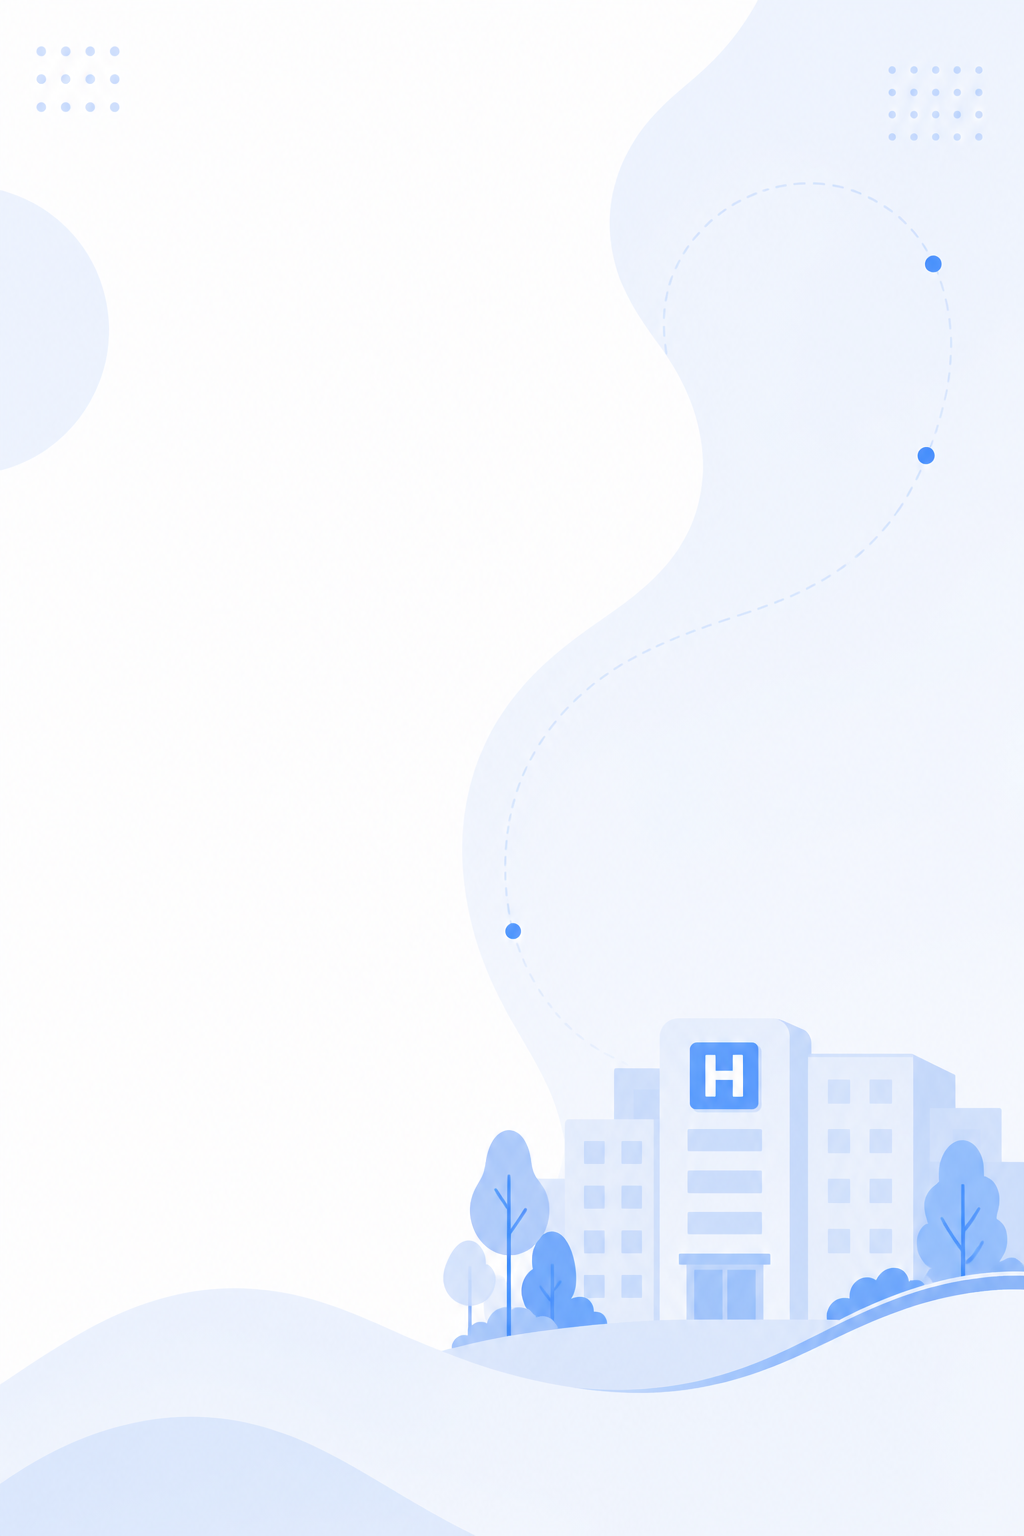
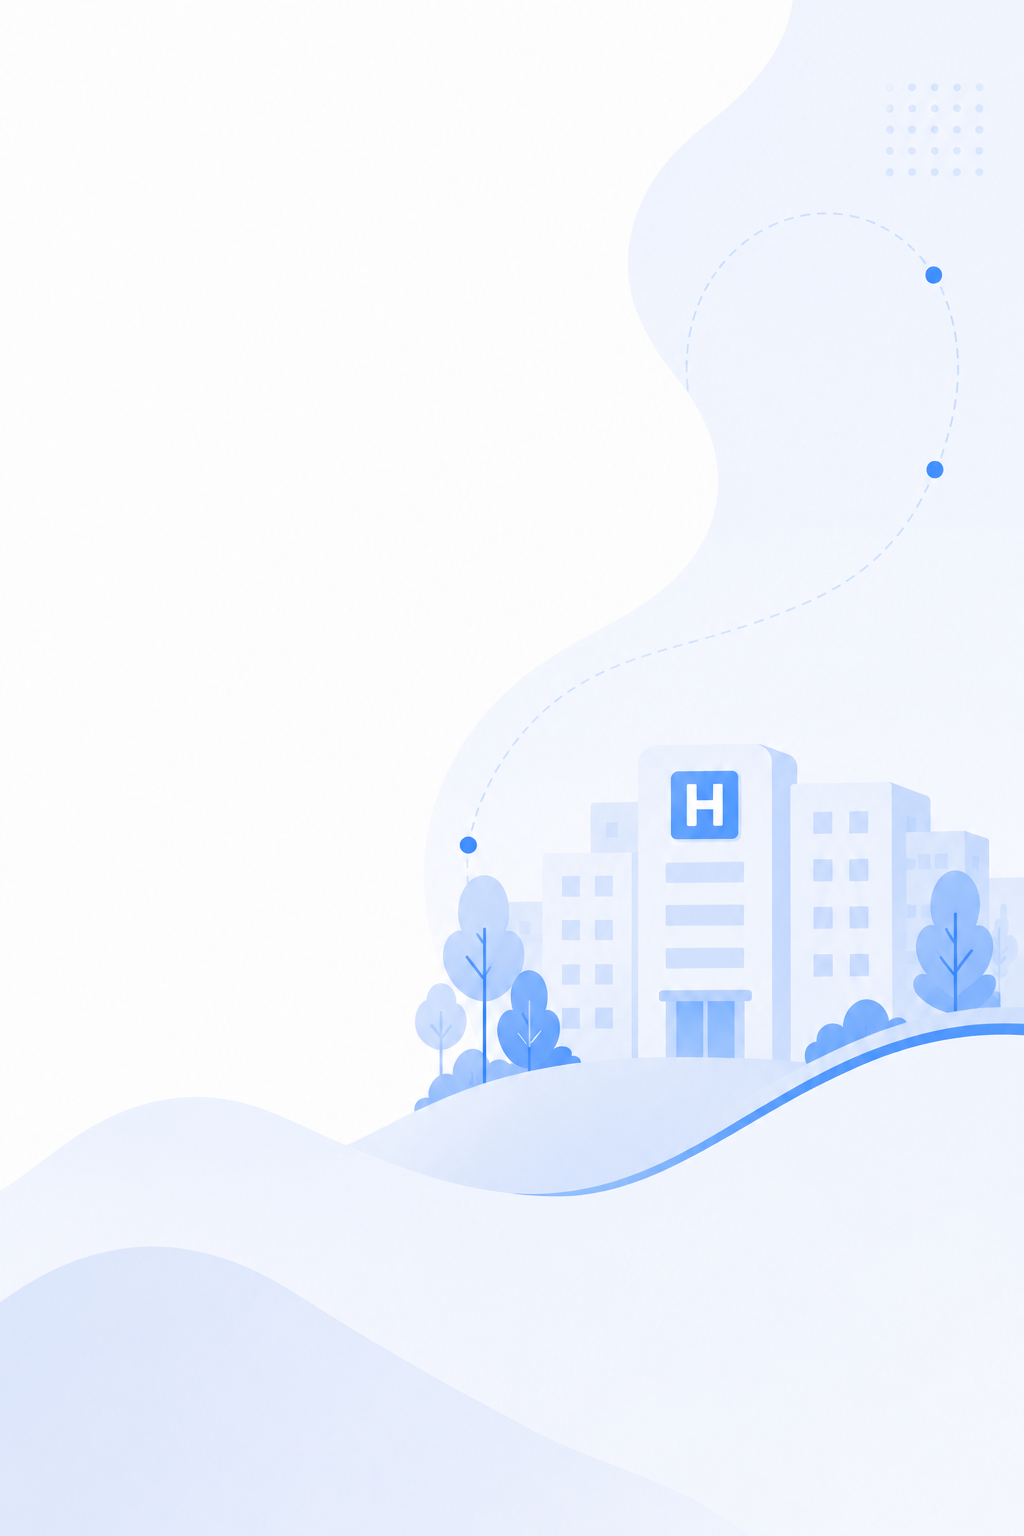
style: update signup panel background scene

diff --git a/frontend/components/forms/signup-wizard.tsx b/frontend/components/forms/signup-wizard.tsx
@@ -262,11 +262,11 @@ export default function SignupWizard() {
             src="/images/signup/left-panel-background.png"
             alt="MediPlan tanıtım arka planı"
             fill
-            className="pointer-events-none object-cover object-center"
+            className="pointer-events-none object-cover object-right"
             sizes="(min-width: 1024px) 560px, 100vw"
             priority
           />
-          <div className="pointer-events-none absolute inset-0 bg-[linear-gradient(180deg,rgba(255,255,255,0.1),rgba(255,255,255,0.02))]" />
+          <div className="pointer-events-none absolute inset-0 bg-[linear-gradient(180deg,rgba(255,255,255,0.08),rgba(255,255,255,0.02))]" />
 
           <div className="relative z-10 flex h-full w-full flex-col justify-between px-7 py-6 xl:px-8">
             <div className="space-y-6">
@@ -290,14 +290,14 @@ export default function SignupWizard() {
               </div>
 
               <div className="max-w-[360px] space-y-4">
-                <h2 className="text-[clamp(38px,4.2vw,56px)] font-extrabold leading-[0.98] tracking-[-0.06em] text-[#1b3271]">
+                <h2 className="text-[clamp(30px,3.2vw,36px)] font-bold leading-[0.98] tracking-[-0.06em] text-[#1b3271]">
                   Daha adil,
                   <br />
                   daha dengeli,
                   <br />
-                  daha verimli çalışma listeleri.
+                  daha verimli çalışma listeleri
                 </h2>
-                <p className="max-w-[320px] text-[13px] leading-7 text-[#506387]">
+                <p className="max-w-[320px] text-[13px] leading-2 text-[#506387]">
                   Bireysel takvim yönetimi, birim organizasyonu ve akıllı analizlerle
                   adil vardiya planlaması şimdi çok daha kolay.
                 </p>
@@ -309,14 +309,14 @@ export default function SignupWizard() {
                   const Icon = item.icon;
                   return (
                     <div key={item.title} className="flex items-start gap-4">
-                      <div className="flex h-16 w-16 shrink-0 items-center justify-center rounded-[20px] border border-[#dbe6ff] bg-[#f4f8ff] text-[#2759e7] shadow-[0_12px_28px_rgba(39,89,231,0.08)]">
-                        <Icon className="h-7 w-7 stroke-[1.7]" />
+                      <div className="flex h-11 w-11 shrink-0 items-center justify-center rounded-[15px] border border-[#dbe6ff] bg-[#f4f8ff] text-[#2759e7] shadow-[0_12px_28px_rgba(39,89,231,0.08)]">
+                        <Icon className="h-5 w-5 stroke-[1.7]" />
                       </div>
                       <div className="pt-0.5">
                         <div className="text-[19px] font-bold tracking-[-0.03em] text-[#2140a5]">
                           {item.title}
                         </div>
-                        <p className="mt-1 max-w-[220px] text-[12px] leading-6 text-[#536585]">
+                        <p className="mt-1 max-w-[250px] text-[12px] leading-6 text-[#536585]">
                           {item.description}
                         </p>
                       </div>
@@ -326,14 +326,14 @@ export default function SignupWizard() {
               </div>
             </div>
 
-            <div className="space-y-5">
-              <div className="max-w-[360px] rounded-[20px] border border-[#dbe6ff] bg-white/72 px-4 py-4 shadow-[0_18px_50px_rgba(39,89,231,0.08)] backdrop-blur-[8px]">
+            <div className="space-y-20">
+              <div className="max-w-[330px] rounded-[20px] border border-[#dbe6ff] bg-white/72 px-4 py-4 shadow-[0_18px_50px_rgba(39,89,231,0.08)] backdrop-blur-[8px]">
                 <div className="flex items-center gap-4">
                   <div className="flex h-12 w-12 items-center justify-center rounded-[14px] bg-[#edf4ff] text-[#2759e7]">
                     <Users className="h-6 w-6 stroke-[1.8]" />
                   </div>
                   <div className="min-w-0 flex-1">
-                    <div className="text-[22px] font-bold tracking-[-0.03em] text-[#2140a5]">
+                    <div className="text-[20px] font-bold tracking-[-0.03em] text-[#2140a5]">
                       Hemen başla!
                     </div>
                     <p className="text-[12px] leading-5 text-[#5b6d8e]">
@@ -376,7 +376,7 @@ export default function SignupWizard() {
               alt=""
               width={620}
               height={760}
-              className="pointer-events-none absolute bottom-0 right-[-1%] z-0 h-auto w-[46%] max-w-[430px]"
+              className="pointer-events-none absolute bottom-[8%] right-[8%] z-0 h-auto w-[42%] max-w-[380px] drop-shadow-[0_28px_60px_rgba(72,111,205,0.18)]"
             />
           </div>
         </aside>